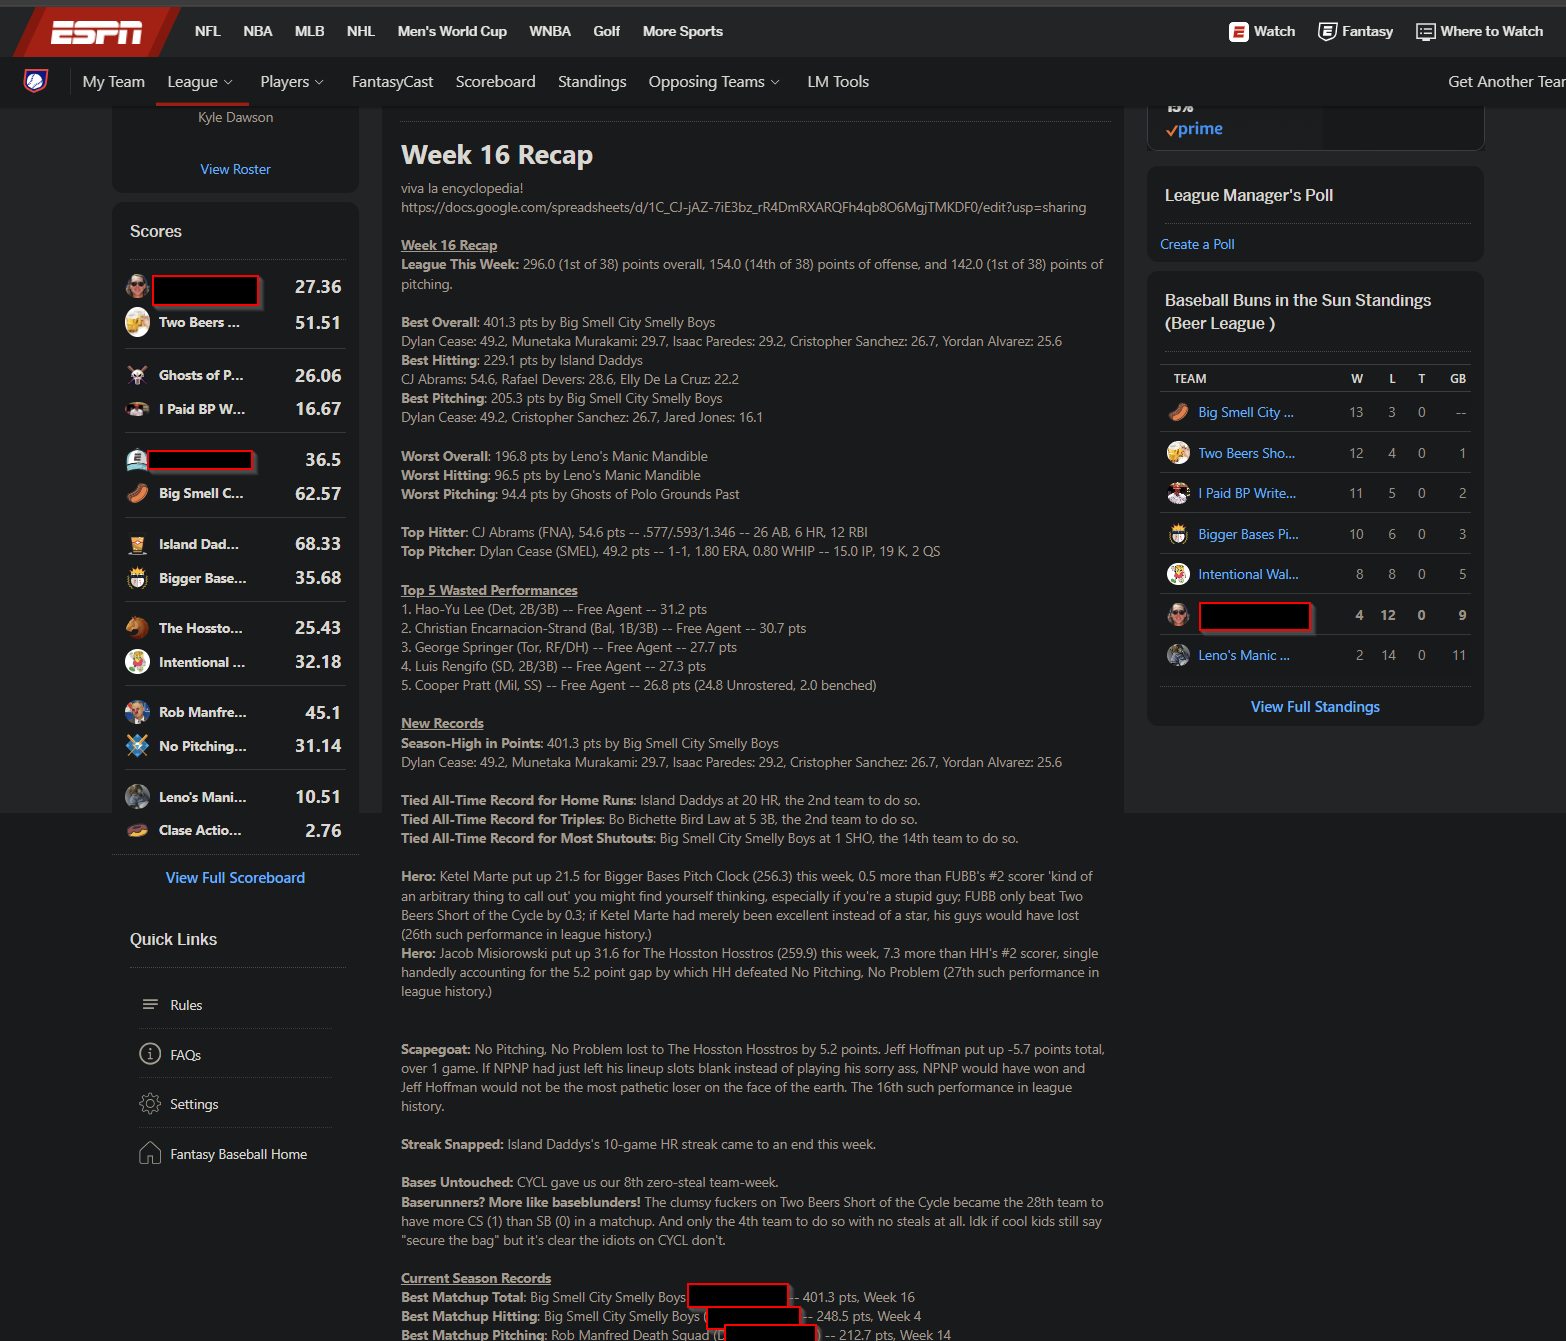
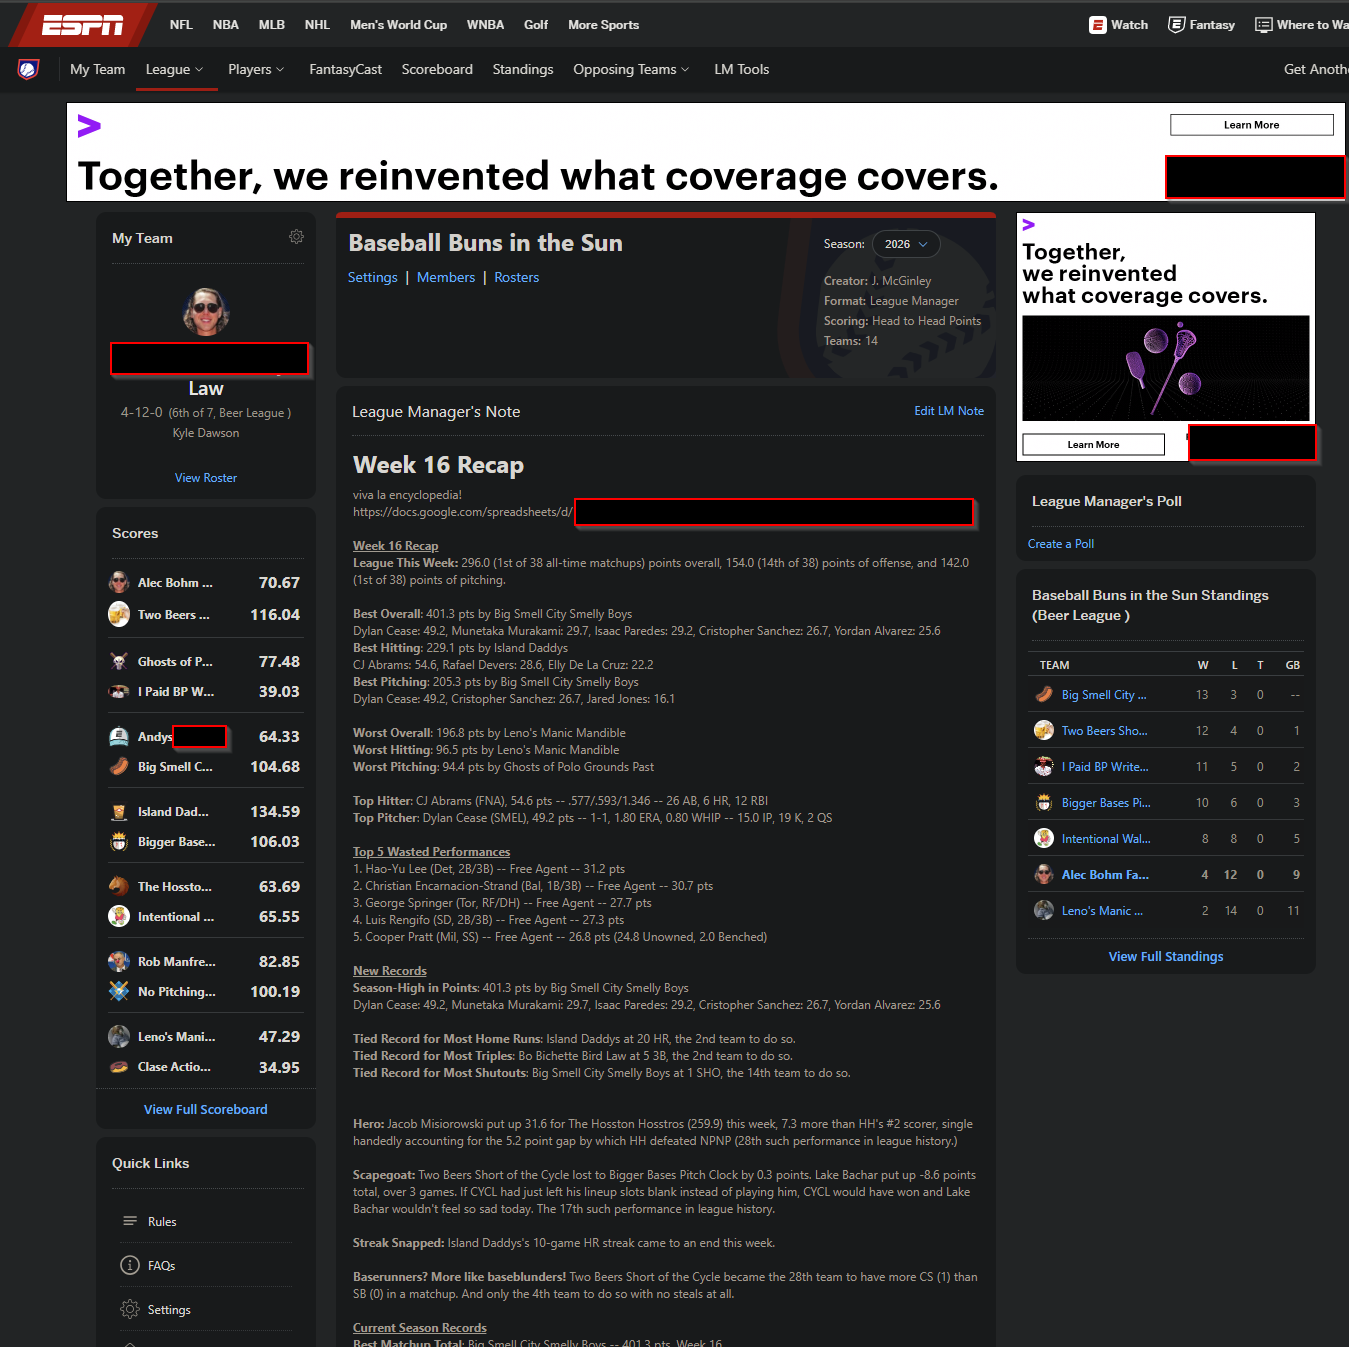
Sanitize public recap showcase (portfolio surface only)
Replaces the recap screenshot with a redacted capture: the almanac
workbook id is blacked out (the docs.google.com/spreadsheets/d/ prefix is
harmless and stays), along with two team-name boxes. League-member names
and team names stay per the consent policy -- the leak here was the
workbook link, not the roster.

Swept the quoted text excerpt in the same section for the same classes.
No workbook URL or spreadsheet id appears anywhere in README prose; the
exposure was only ever in the image. Two team names came up in the
profanity/insult pass and Kyle's call is that both stay -- they are
ordinary fantasy-team-name humor, not profanity, and trimming them would
have cost either a demo category or the excerpt's truthfulness.

Demotes the league_notes.py deep link to a plain code reference and adds
one caption sentence naming what this surface actually is: personalized
league content, generated per league, with configurable callouts. The
deep link invited a reader to treat one league's callout script as the
product; it isn't.

Portfolio surface only. No pipeline, model, or output behavior changes.

Changed region(s): [[0.0, 0.0, 1.0, 1.0], [0.0934, 0.8561, 0.1868, 0.9784], [0.6227, 0.4586, 0.685, 0.4892]]

diff --git a/README.md b/README.md
@@ -92,7 +92,7 @@ Built on dbt + Snowflake + Python: extract scripts land raw JSON, dbt owns every
 
 ![Week 16 Recap, posted live to the league's ESPN front page](docs/img/espn-recap-posted.png)
 
-*Posted straight to the league's actual ESPN front page; this is Week 16, live, not a mockup. Even the jokey callouts are scripted according to a [purpose built callout-script](output/league_notes.py).*
+*Posted straight to the league's actual ESPN front page; this is Week 16, live, not a mockup. Even the jokey callouts are scripted, by a purpose-built callout script (`output/league_notes.py`). This is personalized league content: the recap is generated per league, and which callouts fire is configurable.*
 
 Alternate Recap, as text:
 
